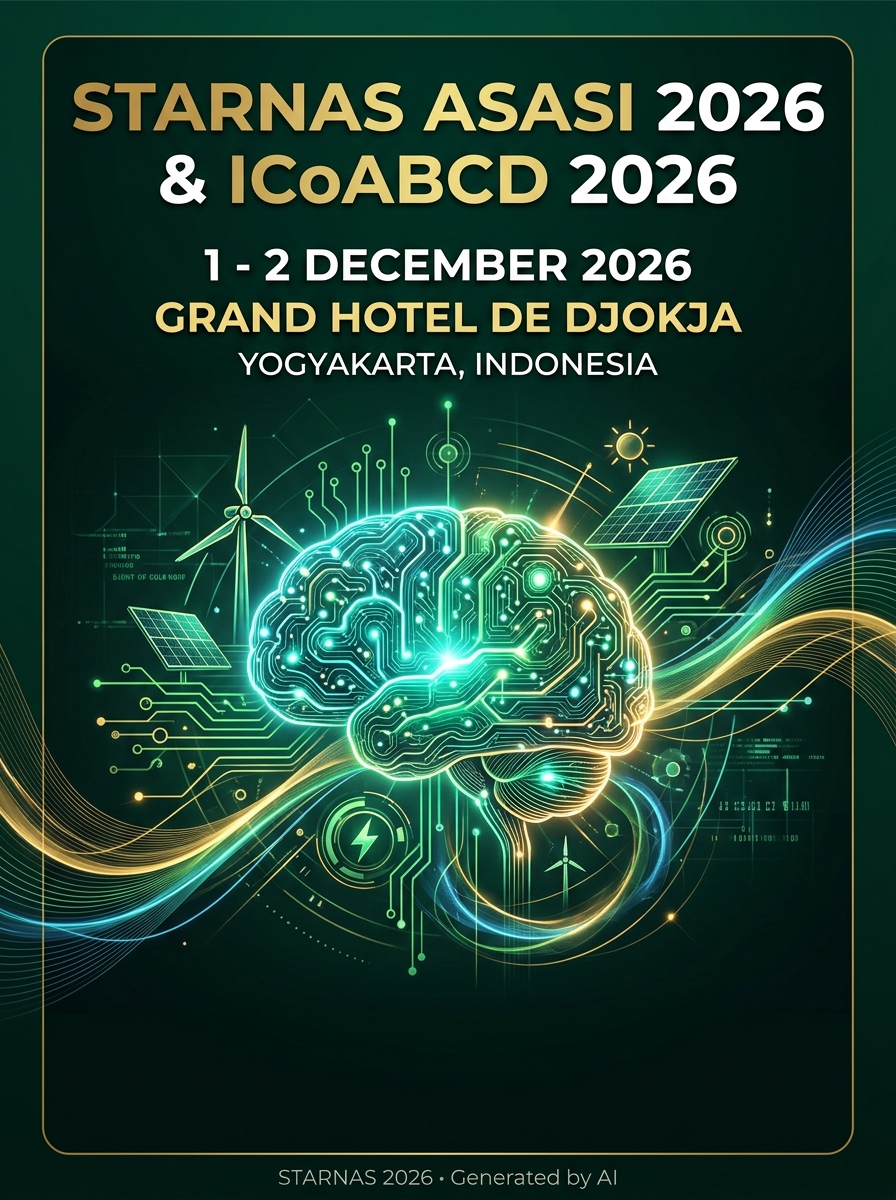
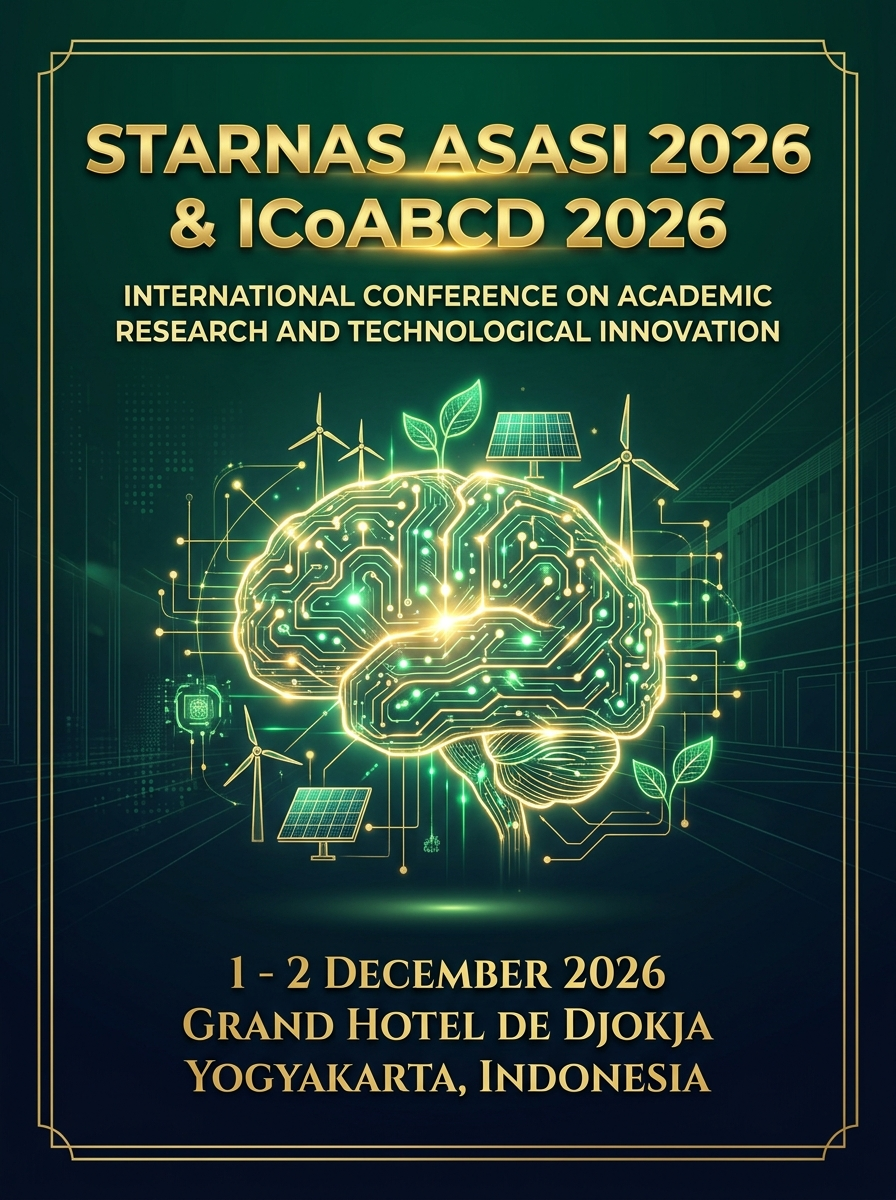
fix: remove all 'Generated by AI' badges, overlays, and border watermarks from poster and view

diff --git a/resources/views/homepage.blade.php b/resources/views/homepage.blade.php
@@ -944,11 +944,8 @@
                 <div class="lg:w-1/2" data-aos="fade-right">
                     <div class="relative">
                         <div class="rounded-2xl overflow-hidden shadow-2xl border border-gray-200 group relative">
-                            <img src="{{ asset('storage/brosur-starnas-2026.jpg') }}" alt="Poster Resmi STARNAS ASASI 2026 (Generated by AI)"
+                            <img src="{{ asset('storage/brosur-starnas-2026.jpg') }}" alt="Poster Resmi STARNAS ASASI 2026 & ICoABCD 2026"
                                 class="w-full h-auto object-contain transition-transform duration-500 group-hover:scale-[1.02]">
-                            <div class="absolute bottom-2 left-2 bg-black/60 backdrop-blur-md text-amber-300 text-[10px] font-semibold px-2 py-0.5 rounded border border-amber-400/30">
-                                <i class="fas fa-magic mr-1"></i>Generated by AI
-                            </div>
                         </div>
 
                         <div
@@ -1391,11 +1388,11 @@
             <div class="flex flex-col lg:flex-row items-center max-w-6xl mx-auto">
                 <div class="lg:w-1/2 mb-8 md:mb-10 lg:mb-0 w-full" data-aos="fade-right">
                     <div class="rounded-3xl overflow-hidden shadow-2xl border-2 border-emerald-500/30 relative group h-full min-h-[360px] md:min-h-[420px] flex items-end">
-                        <img src="{{ asset('storage/venue-djokja.jpg') }}" alt="Grand Hotel De Djokja Yogyakarta (Generated by AI)" class="absolute inset-0 w-full h-full object-cover group-hover:scale-105 transition-transform duration-700">
+                        <img src="{{ asset('storage/venue-djokja.jpg') }}" alt="Grand Hotel De Djokja Yogyakarta" class="absolute inset-0 w-full h-full object-cover group-hover:scale-105 transition-transform duration-700">
                         <div class="absolute inset-0 bg-gradient-to-t from-slate-950 via-slate-950/50 to-transparent"></div>
                         <div class="relative z-10 p-6 md:p-8 text-white w-full">
-                            <div class="inline-flex items-center px-3 py-1 bg-amber-500 text-slate-950 text-xs font-black rounded-lg mb-2 shadow-md">
-                                <i class="fas fa-magic mr-1.5"></i> Grand Hotel De Djokja • Generated by AI
+                            <div class="inline-flex items-center px-3 py-1 bg-emerald-600 text-white text-xs font-bold rounded-lg mb-2 shadow-md">
+                                <i class="fas fa-hotel mr-1.5"></i> Grand Hotel De Djokja
                             </div>
                             <h3 class="text-2xl font-black mb-1 text-white">Grand Hotel De Djokja</h3>
                             <p class="text-emerald-200 text-xs md:text-sm">Venue Resmi STARNAS ASASI & ICoABCD 2026 • Kota Yogyakarta</p>
